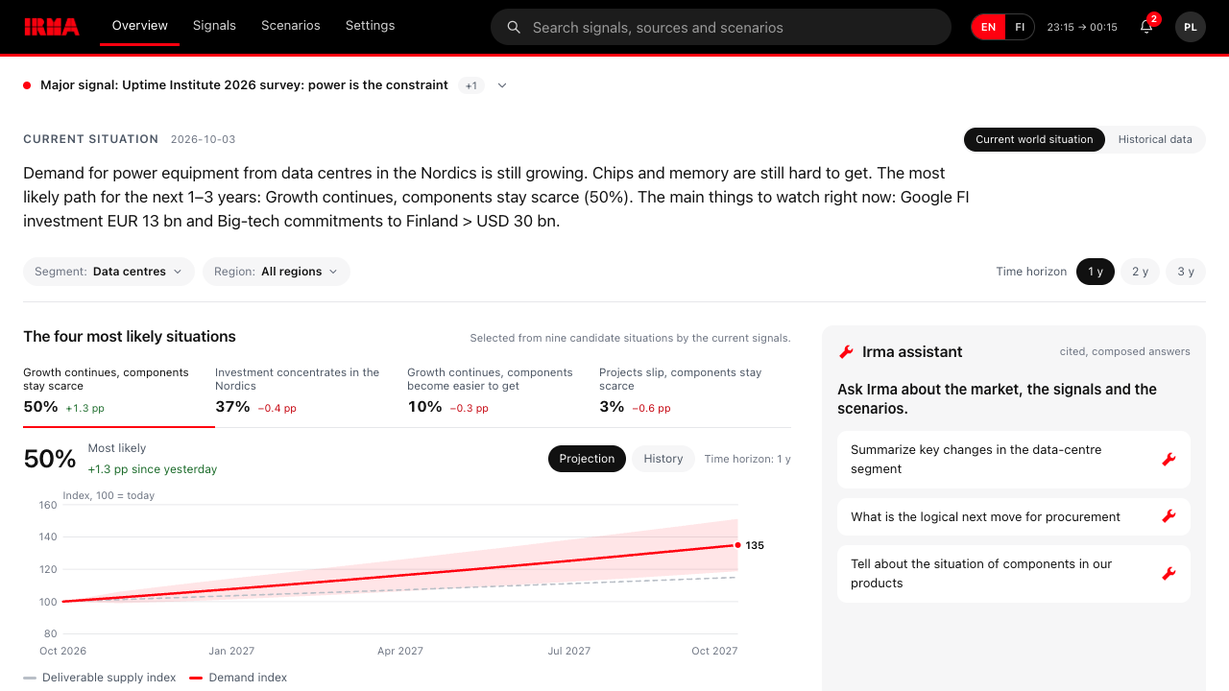
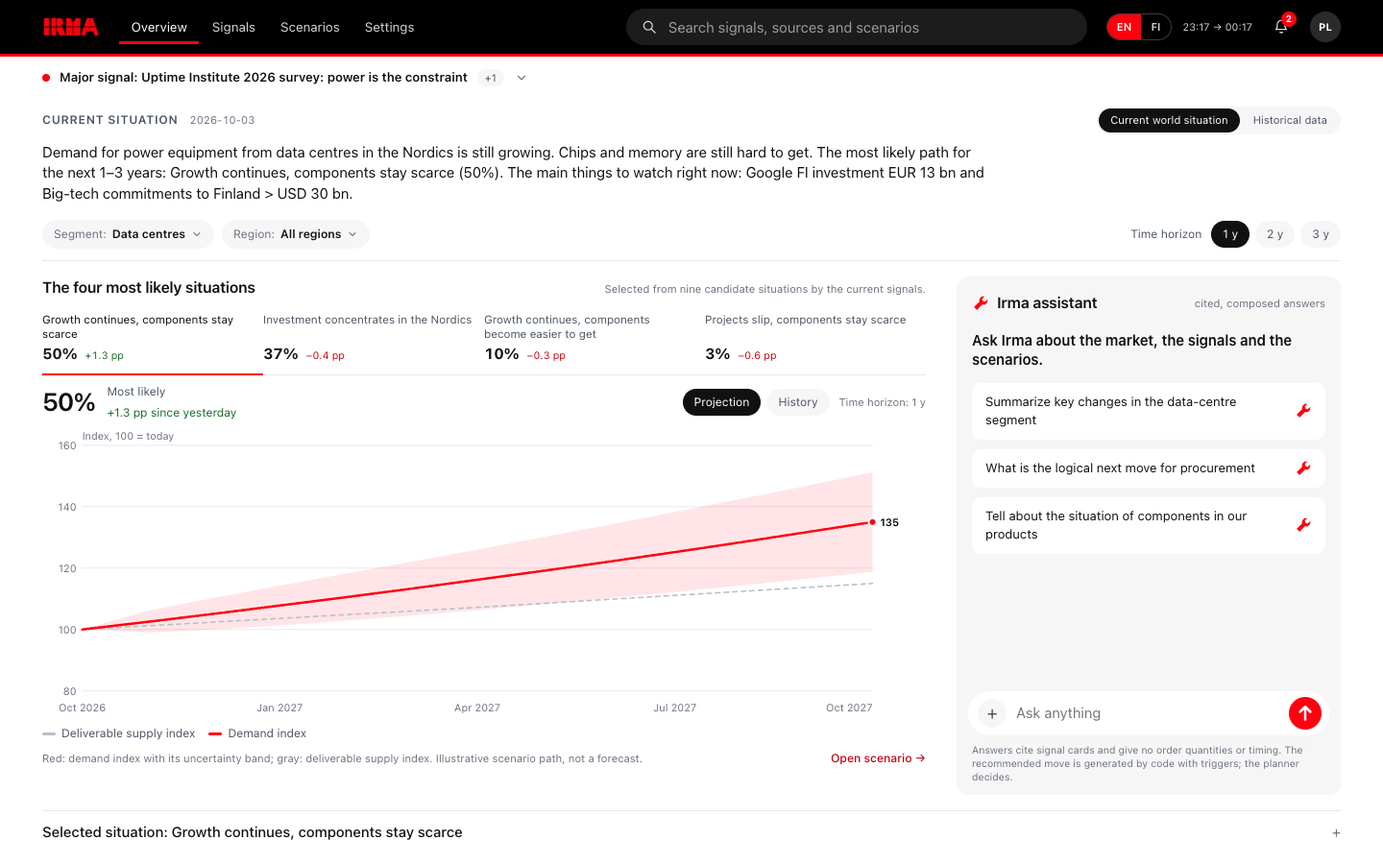
M5.1/frontend: historical panel fixes, design-scan clean, evidence screenshots (J1 J5 R7 R10)

diff --git a/app/frontend/app.js b/app/frontend/app.js
@@ -26,7 +26,7 @@
 
   const I18N = {
     en: { overview: "Overview", signals: "Signals", scenarios: "Scenarios", settings: "Settings", search: "Search signals, sources and scenarios",
-      summaryTitle: "Current situation", allSegments: "All segments", pickSegTitle: "Pick one segment", pickSegText: "The scenario chart and the recommended move are made for one segment at a time. Signals from all segments are on the Signals page.", pickSegChart: "Choose a segment to see the four most likely situations.", pickSegRec: "Choose a segment to see the recommended move.", moreDetail: "More detail", fullSituation: "Current situation, full text", topSignals: "Strongest signals", dataSetNote: "About this data set", histTitle: "Historical data", histSub: "How the weights and the leading situation looked on past dates, using only what had been published by then, next to today.", histAsOf: "As of", histLeader: "Leading situation", histTop: "Strongest signals", histNext: "What happened next", histToday: "Today", histNone: "Not yet known", histLoading: "Loading the historical comparison…", histError: "Could not load the historical comparison", histSignals: "{n} signals", histShow: "Show the historical data panel", histSource: "Source", mapTitle: "Signal map", mapSub: "Each dot is a signal: weight against impact.", listsTitle: "Signal lists", listsSub: "Latest changes, strong and weak signals, negative signals and counter-evidence.", formulaTitle: "Value of each formula", formulaUsedNote: "The weight used in the scenarios is the value marked “used”.", formulaUsed: "used", weightUsed: "Weight used", signalsList: "Signals", regionFilter: "Region", segmentFilter: "Segment", domainsRemoved: "Removed from the allowlist because Anthropic's search tool cannot access them: {d}", blockedDomains: "Not accessible to the search tool, so excluded automatically: {d}", scoutTitle: "Automatic signal search", scoutRunning: "Searching the web for new signals…", scoutIdle: "Runs on every update. Last run {a}; next update {b}.", scoutNever: "No run yet.", searchNow: "Search now", scoutSummary: "{acc} added · {rej} rejected · {s} searches · about USD {c} · {d} s", scoutCandidates: "Candidates in the last run", scoutEarlier: "Earlier runs", scoutRules: "Rules a source must pass", added: "added", rejectedWord: "rejected", failedWord: "failed", foundAuto: "found automatically", scoutFoundCount: "{n} signal(s) found automatically so far.", whySignal: "Why it is a signal", scoutSettingsTitle: "Automatic search for new signals", scoutEnabled: "Search for new signals on every update", maxCandidates: "Candidates checked per run", discoverySearches: "Searches in the discovery step", maxAge: "Maximum age of a source (days)", minGrade: "Minimum publisher grade", gradeA: "A only: primary sources", gradeAB: "A or B: primary sources and reputable press", minWeight: "Minimum weight to be added", minLoad: "Minimum effect on a scenario theme", clearFound: "Remove automatically found signals", clearConfirm: "Remove all signals added by the automatic search?", scoutCost: "Estimate: about USD 0.10–0.30 per run for discovery, plus about USD 0.20–0.55 for each candidate that reaches the full check. The update frequency sets how many runs happen a day.", scoutStarted: "Automatic search started", scoutBusy: "A search is already running", scoutDone: "Automatic search finished: {acc} added, {rej} rejected", openSignal: "Open signal", rules: ["The link must be a page the search actually returned, and the page must have been read or cited.", "The publisher must be graded {grade} or better: primary sources A, reputable press B.", "The page must show a publication date no older than {days} days.", "The item must belong to a defined theme and state how it moves relay demand or component supply.", "The quoted sentence must be found in the retrieved page text.", "The link and the headline must be new.", "A primary source must corroborate it, and a counter-evidence search is run against it.", "Its weight after counter-evidence and freshness must be at least {w}, and it must move a scenario theme by at least {load}.", "If nothing passes every rule, nothing is added."], webVerification: "Web verification", corroborated: "Corroborated", notCorroborated: "Not corroborated", primarySource: "Primary source", searchesRun: "Searches run", retrievedPages: "Pages retrieved", queries: "Queries", webVerified: "verified on the web", linkRemoved: "link removed: not among retrieved pages", counterSearch: "Counter-evidence search", foundNothing: "nothing contradicting found", webSearch: "Web search", webEnabled: "Agents may search and read the web", maxSearches: "Searches per agent call", maxFetches: "Page fetches per agent call", allowedDomains: "Allowed domains (one per line)", primaryDomains: "Primary-source domains, graded A (one per line)", webPricing: "Web search costs USD 10 per 1,000 searches plus tokens. Fetching a page has no fee; its text counts as input tokens, at most 8,000 per page. Only links the tools actually retrieved are kept.", webNeedsKey: "Active only with an API key; without one the agents run in replay mode.", mockData: "Evidence set", fourTitle: "The four most likely situations", fourNote: "Selected from nine candidate situations by the current signals.",
+      summaryTitle: "Current situation", allSegments: "All segments", pickSegTitle: "Pick one segment", pickSegText: "The scenario chart and the recommended move are made for one segment at a time. Signals from all segments are on the Signals page.", pickSegChart: "Choose a segment to see the four most likely situations.", pickSegRec: "Choose a segment to see the recommended move.", moreDetail: "More detail", fullSituation: "Current situation, full text", topSignals: "Strongest signals", dataSetNote: "About this data set", histTitle: "Historical data", histSub: "How the weights and the leading situation looked on past dates, using only what had been published by then, next to today.", histAsOf: "As of", histLeader: "Leading situation", histTop: "Strongest signals", histNext: "What happened next", histToday: "Today", histNone: "Not yet known", histLoading: "Loading the historical comparison…", histError: "Could not load the historical comparison", histSignals: "{n} signals", histNoToday: "Today's picture is shown when the current data set is selected.", histSource: "Source", mapTitle: "Signal map", mapSub: "Each dot is a signal: weight against impact.", listsTitle: "Signal lists", listsSub: "Latest changes, strong and weak signals, negative signals and counter-evidence.", formulaTitle: "Value of each formula", formulaUsedNote: "The weight used in the scenarios is the value marked “used”.", formulaUsed: "used", weightUsed: "Weight used", signalsList: "Signals", regionFilter: "Region", segmentFilter: "Segment", domainsRemoved: "Removed from the allowlist because Anthropic's search tool cannot access them: {d}", blockedDomains: "Not accessible to the search tool, so excluded automatically: {d}", scoutTitle: "Automatic signal search", scoutRunning: "Searching the web for new signals…", scoutIdle: "Runs on every update. Last run {a}; next update {b}.", scoutNever: "No run yet.", searchNow: "Search now", scoutSummary: "{acc} added · {rej} rejected · {s} searches · about USD {c} · {d} s", scoutCandidates: "Candidates in the last run", scoutEarlier: "Earlier runs", scoutRules: "Rules a source must pass", added: "added", rejectedWord: "rejected", failedWord: "failed", foundAuto: "found automatically", scoutFoundCount: "{n} signal(s) found automatically so far.", whySignal: "Why it is a signal", scoutSettingsTitle: "Automatic search for new signals", scoutEnabled: "Search for new signals on every update", maxCandidates: "Candidates checked per run", discoverySearches: "Searches in the discovery step", maxAge: "Maximum age of a source (days)", minGrade: "Minimum publisher grade", gradeA: "A only: primary sources", gradeAB: "A or B: primary sources and reputable press", minWeight: "Minimum weight to be added", minLoad: "Minimum effect on a scenario theme", clearFound: "Remove automatically found signals", clearConfirm: "Remove all signals added by the automatic search?", scoutCost: "Estimate: about USD 0.10–0.30 per run for discovery, plus about USD 0.20–0.55 for each candidate that reaches the full check. The update frequency sets how many runs happen a day.", scoutStarted: "Automatic search started", scoutBusy: "A search is already running", scoutDone: "Automatic search finished: {acc} added, {rej} rejected", openSignal: "Open signal", rules: ["The link must be a page the search actually returned, and the page must have been read or cited.", "The publisher must be graded {grade} or better: primary sources A, reputable press B.", "The page must show a publication date no older than {days} days.", "The item must belong to a defined theme and state how it moves relay demand or component supply.", "The quoted sentence must be found in the retrieved page text.", "The link and the headline must be new.", "A primary source must corroborate it, and a counter-evidence search is run against it.", "Its weight after counter-evidence and freshness must be at least {w}, and it must move a scenario theme by at least {load}.", "If nothing passes every rule, nothing is added."], webVerification: "Web verification", corroborated: "Corroborated", notCorroborated: "Not corroborated", primarySource: "Primary source", searchesRun: "Searches run", retrievedPages: "Pages retrieved", queries: "Queries", webVerified: "verified on the web", linkRemoved: "link removed: not among retrieved pages", counterSearch: "Counter-evidence search", foundNothing: "nothing contradicting found", webSearch: "Web search", webEnabled: "Agents may search and read the web", maxSearches: "Searches per agent call", maxFetches: "Page fetches per agent call", allowedDomains: "Allowed domains (one per line)", primaryDomains: "Primary-source domains, graded A (one per line)", webPricing: "Web search costs USD 10 per 1,000 searches plus tokens. Fetching a page has no fee; its text counts as input tokens, at most 8,000 per page. Only links the tools actually retrieved are kept.", webNeedsKey: "Active only with an API key; without one the agents run in replay mode.", mockData: "Evidence set", fourTitle: "The four most likely situations", fourNote: "Selected from nine candidate situations by the current signals.",
       mostLikely: "Most likely", rankOf: "Rank {n} of 4", sinceYesterday: "since yesterday", noPrev: "no previous day", projection: "Projection", history: "History",
       d7: "7 days", d30: "30 days", d90: "90 days", all: "All", demandIdx: "Demand index", supplyIdx: "Deliverable supply index",
       idxLabel: "Index, 100 = today", probLabel: "Probability on that day (%)", openScenario: "Open scenario", detailsTitle: "Selected situation", whatHappens: "What happens",
@@ -61,7 +61,7 @@
       horizonFitTitle: "Fit to the time horizon", fitWord: "Fit T(h)", credTitle: "Credibility (belief to plausibility)", indepSources: "independent sources", assumptionsTitle: "Assumptions behind this weight", baseWeight: "Now",
       methodsLabel: "Values by method", cappedNote: "Not yet challenged by counter-evidence: weight capped at 0.6." },
     fi: { overview: "Yleiskuva", signals: "Signaalit", scenarios: "Skenaariot", settings: "Asetukset", search: "Hae signaaleja, lähteitä ja skenaarioita",
-      summaryTitle: "Nykytilanne", allSegments: "Kaikki segmentit", pickSegTitle: "Valitse yksi segmentti", pickSegText: "Skenaariokuvaaja ja suositeltu siirto tehdään yhdelle segmentille kerrallaan. Kaikkien segmenttien signaalit ovat Signaalit-sivulla.", pickSegChart: "Valitse segmentti nähdäksesi neljä todennäköisintä tilannetta.", pickSegRec: "Valitse segmentti nähdäksesi suositellun siirron.", moreDetail: "Lisätietoa", fullSituation: "Nykytilanne, koko teksti", topSignals: "Vahvimmat signaalit", dataSetNote: "Tietoaineistosta", histTitle: "Vanha data", histSub: "Miltä painoarvot ja johtava tilanne näyttivät aiempina päivinä, kun käytössä oli vain siihen mennessä julkaistu tieto, ja miltä ne näyttävät tänään.", histAsOf: "Tilanne", histLeader: "Johtava tilanne", histTop: "Vahvimmat signaalit", histNext: "Mitä tapahtui seuraavaksi", histToday: "Tänään", histNone: "Ei vielä tiedossa", histLoading: "Ladataan vanhan datan vertailua…", histError: "Vanhan datan vertailua ei voitu ladata", histSignals: "{n} signaalia", histShow: "Näytä vanhan datan paneeli", histSource: "Lähde", mapTitle: "Signaalikartta", mapSub: "Jokainen piste on signaali: painoarvo suhteessa vaikutukseen.", listsTitle: "Signaalilistat", listsSub: "Viimeisimmät muutokset, vahvat ja heikot signaalit sekä negatiiviset signaalit ja vastatodisteet.", formulaTitle: "Kunkin kaavan arvo", formulaUsedNote: "Skenaarioissa käytetty painoarvo on arvo, jossa on merkintä “käytössä”.", formulaUsed: "käytössä", weightUsed: "Käytetty painoarvo", signalsList: "Signaalit", regionFilter: "Alue", segmentFilter: "Segmentti", domainsRemoved: "Poistettu sallittujen listalta, koska Anthropicin hakutyökalu ei pääse niihin: {d}", blockedDomains: "Hakutyökalu ei pääse näihin, joten ne on suljettu pois automaattisesti: {d}", scoutTitle: "Automaattinen signaalihaku", scoutRunning: "Haetaan uusia signaaleja verkosta…", scoutIdle: "Ajetaan jokaisella päivityksellä. Viimeksi {a}; seuraava päivitys {b}.", scoutNever: "Ei vielä ajoja.", searchNow: "Hae nyt", scoutSummary: "{acc} lisätty · {rej} hylätty · {s} hakua · noin {c} USD · {d} s", scoutCandidates: "Viimeisen ajon ehdokkaat", scoutEarlier: "Aiemmat ajot", scoutRules: "Säännöt, jotka lähteen on läpäistävä", added: "lisätty", rejectedWord: "hylätty", failedWord: "epäonnistui", foundAuto: "löydetty automaattisesti", scoutFoundCount: "{n} signaalia löydetty automaattisesti tähän mennessä.", whySignal: "Miksi tämä on signaali", scoutSettingsTitle: "Uusien signaalien automaattinen haku", scoutEnabled: "Hae uusia signaaleja jokaisella päivityksellä", maxCandidates: "Tarkistettavia ehdokkaita per ajo", discoverySearches: "Hakuja löytövaiheessa", maxAge: "Lähteen enimmäisikä (päivää)", minGrade: "Julkaisijan vähimmäisluokka", gradeA: "Vain A: ensisijaiset lähteet", gradeAB: "A tai B: ensisijaiset lähteet ja luotettava media", minWeight: "Lisättävän signaalin vähimmäispaino", minLoad: "Vähimmäisvaikutus skenaarioteemaan", clearFound: "Poista automaattisesti löydetyt signaalit", clearConfirm: "Poistetaanko kaikki automaattisen haun lisäämät signaalit?", scoutCost: "Arvio: noin 0,10–0,30 USD per ajo löytövaiheelle sekä noin 0,20–0,55 USD jokaisesta ehdokkaasta, joka etenee täyteen tarkistukseen. Päivitystiheys määrää ajojen määrän päivässä.", scoutStarted: "Automaattinen haku käynnistyi", scoutBusy: "Haku on jo käynnissä", scoutDone: "Automaattinen haku valmis: {acc} lisätty, {rej} hylätty", openSignal: "Avaa signaali", rules: ["Linkin on oltava sivu, jonka haku todella palautti, ja sivu on luettu tai lainattu.", "Julkaisijan luokan on oltava {grade} tai parempi: ensisijaiset lähteet A, luotettava media B.", "Sivulla on oltava julkaisupäivä, joka on enintään {days} päivää vanha.", "Tiedon on kuuluttava määriteltyyn teemaan ja kerrottava, miten se vaikuttaa relekysyntään tai komponenttien saatavuuteen.", "Lainatun lauseen on löydyttävä haetun sivun tekstistä.", "Linkin ja otsikon on oltava uusia.", "Ensisijaisen lähteen on vahvistettava tieto, ja sitä vastaan ajetaan vastanäytön haku.", "Painon vastanäytön ja tuoreuden jälkeen on oltava vähintään {w}, ja sen on liikutettava skenaarioteemaa vähintään {load}.", "Jos mikään ei läpäise kaikkia sääntöjä, mitään ei lisätä."], webVerification: "Verkkotarkistus", corroborated: "Vahvistettu", notCorroborated: "Ei vahvistettu", primarySource: "Ensisijainen lähde", searchesRun: "Hakuja", retrievedPages: "Haettuja sivuja", queries: "Haut", webVerified: "tarkistettu verkosta", linkRemoved: "linkki poistettu: ei haettujen sivujen joukossa", counterSearch: "Vastanäytön haku", foundNothing: "kumoavaa ei löytynyt", webSearch: "Verkkohaku", webEnabled: "Agentit saavat hakea ja lukea verkkoa", maxSearches: "Hakuja per agenttikutsu", maxFetches: "Sivunhakuja per agenttikutsu", allowedDomains: "Sallitut verkkotunnukset (yksi per rivi)", primaryDomains: "Ensisijaisten lähteiden verkkotunnukset, luokka A (yksi per rivi)", webPricing: "Verkkohaku maksaa 10 USD per 1 000 hakua sekä tokenit. Sivun haulla ei ole maksua; sen teksti lasketaan syötetokeneiksi, enintään 8 000 per sivu. Vain työkalujen oikeasti hakemat linkit säilytetään.", webNeedsKey: "Toimii vain API-avaimella; ilman sitä agentit toimivat toistotilassa.", mockData: "Aineisto", fourTitle: "Neljä todennäköisintä tilannetta", fourNote: "Valittu yhdeksästä ehdokastilanteesta nykyisten signaalien perusteella.",
+      summaryTitle: "Nykytilanne", allSegments: "Kaikki segmentit", pickSegTitle: "Valitse yksi segmentti", pickSegText: "Skenaariokuvaaja ja suositeltu siirto tehdään yhdelle segmentille kerrallaan. Kaikkien segmenttien signaalit ovat Signaalit-sivulla.", pickSegChart: "Valitse segmentti nähdäksesi neljä todennäköisintä tilannetta.", pickSegRec: "Valitse segmentti nähdäksesi suositellun siirron.", moreDetail: "Lisätietoa", fullSituation: "Nykytilanne, koko teksti", topSignals: "Vahvimmat signaalit", dataSetNote: "Tietoaineistosta", histTitle: "Vanha data", histSub: "Miltä painoarvot ja johtava tilanne näyttivät aiempina päivinä, kun käytössä oli vain siihen mennessä julkaistu tieto, ja miltä ne näyttävät tänään.", histAsOf: "Tilanne", histLeader: "Johtava tilanne", histTop: "Vahvimmat signaalit", histNext: "Mitä tapahtui seuraavaksi", histToday: "Tänään", histNone: "Ei vielä tiedossa", histLoading: "Ladataan vanhan datan vertailua…", histError: "Vanhan datan vertailua ei voitu ladata", histSignals: "{n} signaalia", histNoToday: "Tämän päivän tilanne näkyy, kun nykyinen aineisto on valittuna.", histSource: "Lähde", mapTitle: "Signaalikartta", mapSub: "Jokainen piste on signaali: painoarvo suhteessa vaikutukseen.", listsTitle: "Signaalilistat", listsSub: "Viimeisimmät muutokset, vahvat ja heikot signaalit sekä negatiiviset signaalit ja vastatodisteet.", formulaTitle: "Kunkin kaavan arvo", formulaUsedNote: "Skenaarioissa käytetty painoarvo on arvo, jossa on merkintä “käytössä”.", formulaUsed: "käytössä", weightUsed: "Käytetty painoarvo", signalsList: "Signaalit", regionFilter: "Alue", segmentFilter: "Segmentti", domainsRemoved: "Poistettu sallittujen listalta, koska Anthropicin hakutyökalu ei pääse niihin: {d}", blockedDomains: "Hakutyökalu ei pääse näihin, joten ne on suljettu pois automaattisesti: {d}", scoutTitle: "Automaattinen signaalihaku", scoutRunning: "Haetaan uusia signaaleja verkosta…", scoutIdle: "Ajetaan jokaisella päivityksellä. Viimeksi {a}; seuraava päivitys {b}.", scoutNever: "Ei vielä ajoja.", searchNow: "Hae nyt", scoutSummary: "{acc} lisätty · {rej} hylätty · {s} hakua · noin {c} USD · {d} s", scoutCandidates: "Viimeisen ajon ehdokkaat", scoutEarlier: "Aiemmat ajot", scoutRules: "Säännöt, jotka lähteen on läpäistävä", added: "lisätty", rejectedWord: "hylätty", failedWord: "epäonnistui", foundAuto: "löydetty automaattisesti", scoutFoundCount: "{n} signaalia löydetty automaattisesti tähän mennessä.", whySignal: "Miksi tämä on signaali", scoutSettingsTitle: "Uusien signaalien automaattinen haku", scoutEnabled: "Hae uusia signaaleja jokaisella päivityksellä", maxCandidates: "Tarkistettavia ehdokkaita per ajo", discoverySearches: "Hakuja löytövaiheessa", maxAge: "Lähteen enimmäisikä (päivää)", minGrade: "Julkaisijan vähimmäisluokka", gradeA: "Vain A: ensisijaiset lähteet", gradeAB: "A tai B: ensisijaiset lähteet ja luotettava media", minWeight: "Lisättävän signaalin vähimmäispaino", minLoad: "Vähimmäisvaikutus skenaarioteemaan", clearFound: "Poista automaattisesti löydetyt signaalit", clearConfirm: "Poistetaanko kaikki automaattisen haun lisäämät signaalit?", scoutCost: "Arvio: noin 0,10–0,30 USD per ajo löytövaiheelle sekä noin 0,20–0,55 USD jokaisesta ehdokkaasta, joka etenee täyteen tarkistukseen. Päivitystiheys määrää ajojen määrän päivässä.", scoutStarted: "Automaattinen haku käynnistyi", scoutBusy: "Haku on jo käynnissä", scoutDone: "Automaattinen haku valmis: {acc} lisätty, {rej} hylätty", openSignal: "Avaa signaali", rules: ["Linkin on oltava sivu, jonka haku todella palautti, ja sivu on luettu tai lainattu.", "Julkaisijan luokan on oltava {grade} tai parempi: ensisijaiset lähteet A, luotettava media B.", "Sivulla on oltava julkaisupäivä, joka on enintään {days} päivää vanha.", "Tiedon on kuuluttava määriteltyyn teemaan ja kerrottava, miten se vaikuttaa relekysyntään tai komponenttien saatavuuteen.", "Lainatun lauseen on löydyttävä haetun sivun tekstistä.", "Linkin ja otsikon on oltava uusia.", "Ensisijaisen lähteen on vahvistettava tieto, ja sitä vastaan ajetaan vastanäytön haku.", "Painon vastanäytön ja tuoreuden jälkeen on oltava vähintään {w}, ja sen on liikutettava skenaarioteemaa vähintään {load}.", "Jos mikään ei läpäise kaikkia sääntöjä, mitään ei lisätä."], webVerification: "Verkkotarkistus", corroborated: "Vahvistettu", notCorroborated: "Ei vahvistettu", primarySource: "Ensisijainen lähde", searchesRun: "Hakuja", retrievedPages: "Haettuja sivuja", queries: "Haut", webVerified: "tarkistettu verkosta", linkRemoved: "linkki poistettu: ei haettujen sivujen joukossa", counterSearch: "Vastanäytön haku", foundNothing: "kumoavaa ei löytynyt", webSearch: "Verkkohaku", webEnabled: "Agentit saavat hakea ja lukea verkkoa", maxSearches: "Hakuja per agenttikutsu", maxFetches: "Sivunhakuja per agenttikutsu", allowedDomains: "Sallitut verkkotunnukset (yksi per rivi)", primaryDomains: "Ensisijaisten lähteiden verkkotunnukset, luokka A (yksi per rivi)", webPricing: "Verkkohaku maksaa 10 USD per 1 000 hakua sekä tokenit. Sivun haulla ei ole maksua; sen teksti lasketaan syötetokeneiksi, enintään 8 000 per sivu. Vain työkalujen oikeasti hakemat linkit säilytetään.", webNeedsKey: "Toimii vain API-avaimella; ilman sitä agentit toimivat toistotilassa.", mockData: "Aineisto", fourTitle: "Neljä todennäköisintä tilannetta", fourNote: "Valittu yhdeksästä ehdokastilanteesta nykyisten signaalien perusteella.",
       mostLikely: "Todennäköisin", rankOf: "Sija {n}/4", sinceYesterday: "eilisestä", noPrev: "ei edellistä päivää", projection: "Ennuste", history: "Historia",
       d7: "7 päivää", d30: "30 päivää", d90: "90 päivää", all: "Kaikki", demandIdx: "Kysyntäindeksi", supplyIdx: "Toimituskyvyn indeksi",
       idxLabel: "Indeksi, 100 = tänään", probLabel: "Todennäköisyys kyseisenä päivänä (%)", openScenario: "Avaa skenaario", detailsTitle: "Valittu tilanne", whatHappens: "Mitä tapahtuu",
@@ -106,7 +106,7 @@
     if (attrs) for (const [k, v] of Object.entries(attrs)) {
       if (v === null || v === undefined || v === false) continue;
       if (k === "class") el.setAttribute("class", v);
-      else if (k === "style" && typeof v === "object") Object.assign(el.style, v);
+      else if (k === "style" && typeof v === "object") { for (const [sk, sv] of Object.entries(v)) { if (sk.startsWith("--")) el.style.setProperty(sk, sv); else el.style[sk] = sv; } }
       else if (k.startsWith("on") && typeof v === "function") el.addEventListener(k.slice(2), v);
       else el.setAttribute(k, v);
     }
@@ -216,7 +216,7 @@
     else main = h("span", { class: "chg muted" }, t("changeFlat"));
     return h("span", { class: "chg-wrap" }, main, since);
   }
-  const confClass = (c) => (c === "high" ? "ok" : c === "medium" ? "warn" : "");
+  const confClass = (c) => (c === "high" ? "ok" : "");
   // The backend headline starts with "Recommended move (confidence, 'X' at N%): ..."; the pills already show that, so the card leads with the move itself.
   function moveSentence(txt) { const m = /^[^()]*\([^)]*\)\s*:\s*([\s\S]+)$/.exec(txt || ""); const r = m ? m[1] : (txt || ""); return r.charAt(0).toUpperCase() + r.slice(1); }
   function recommendationCard(R, hedgeOpen, horizonNote) {
@@ -232,7 +232,7 @@
       // Compact: area, type and the move itself stay visible; trigger, horizon and cost if wrong sit behind one disclosure.
       const isLead = sameMove(L(m.text), moveSentence(L(R.headline)));
       return h("li", { class: `rec-move ${isLead ? "lead" : ""}` },
-        h("div", { class: "rec-move-head" }, h("span", { class: "rec-area" }, t(`area_${m.area}`)), pill(m.type === "no_regret" ? t("noRegret") : t("contingent"), m.type === "no_regret" ? "ok" : "warn")),
+        h("div", { class: "rec-move-head" }, h("span", { class: "rec-area" }, t(`area_${m.area}`)), pill(m.type === "no_regret" ? t("noRegret") : t("contingent"), m.type === "no_regret" ? "ok" : "")),
         h("div", { class: "rec-move-text" }, L(m.text)),
         disc(`${t("triggerWord")} · ${t("costIfWrong").toLowerCase()}`, h("div", { class: "small" },
           h("div", { class: "rec-trigger" }, h("span", { class: "rec-k" }, `${t("triggerWord")}: `), cites(L(m.trigger)), ...extra.map((id) => [" ", h("a", { class: "cite", href: `#/signal/${id}` }, id)])),
@@ -259,7 +259,6 @@
     const mn = Math.min(...v), mx = Math.max(...v), sp = mx - mn || 1;
     const pts = v.map((y, i) => [pad + (i * (w - 2 * pad)) / (v.length - 1), hh - pad - ((y - mn) / sp) * (hh - 2 * pad)]);
     svg.append(h("svg:path", { d: "M" + pts.map((p) => p.join(",")).join(" L"), fill: "none", stroke: color || RED, "stroke-width": 2, "stroke-linejoin": "round", "stroke-linecap": "round" }));
-    const lp = pts[pts.length - 1]; svg.append(h("svg:circle", { cx: lp[0], cy: lp[1], r: 3.5, fill: color || RED, stroke: "#fff", "stroke-width": 2 }));
     return svg;
   }
   function lineChart(dates, series, opts) {
@@ -384,7 +383,7 @@
       const rows = D.rows || []; const td = D.today;
       const outcome = (o) => o ? h("div", null, h("div", null, L(o.text)), o.source ? h("div", { class: "tiny" }, `${t("histSource")}: `, o.source.url ? h("a", { class: "link", href: o.source.url, target: "_blank", rel: "noopener" }, o.source.name) : o.source.name, o.source.date ? ` · ${o.source.date}` : "") : null) : h("span", { class: "muted" }, t("histNone"));
       body.replaceChildren(
-        h("div", { class: "hist-label" }, h("strong", null, L(D.label)), D.data_label ? labelPill(D.data_label) : null),
+        h("div", { class: "hist-label" }, h("strong", null, L(D.label)), td ? null : h("span", { class: "tiny" }, t("histNoToday"))),
         h("div", { class: "table-wrap" }, h("table", { class: "hist-table" },
           h("thead", null, h("tr", null, h("th", null, t("histAsOf")), h("th", null, t("histLeader")), h("th", null, t("histTop")), h("th", null, t("histNext")))),
           h("tbody", null,

diff --git a/app/frontend/styles.css b/app/frontend/styles.css
@@ -25,14 +25,15 @@ p { margin: 0 0 var(--s3); }
 .nowrap { white-space: nowrap; }
 
 /* top bar */
-.topbar { position: sticky; top: 0; z-index: 20; background: var(--bar); border-bottom: 3px solid var(--accent); }
+.topbar { position: sticky; top: 0; z-index: 20; background: var(--bar); }
+.topbar::after { content: ""; display: block; height: 3px; background: var(--accent); }
 .topbar-inner { max-width: 1400px; margin: 0 auto; padding: 0 24px; height: 56px; display: flex; align-items: center; gap: 20px; }
 .brand { display: flex; align-items: center; }
 .brand-logo { height: 24px; width: auto; display: block; }
 .nav { display: flex; gap: 2px; }
-.nav a { padding: 8px 12px; color: var(--bar-text); font-size: 0.9rem; border-bottom: 3px solid transparent; }
+.nav a { padding: 8px 12px; color: var(--bar-text); font-size: 0.9rem; }
 .nav a:hover { color: #fff; }
-.nav a.active { color: #fff; border-bottom-color: var(--accent); }
+.nav a.active { color: #fff; box-shadow: inset 0 -3px 0 var(--accent); }
 .search { flex: 1; max-width: 480px; display: flex; align-items: center; gap: 10px; background: #1c1c1c; color: var(--bar-text); border-radius: 999px; padding: 7px 16px; margin-left: auto; }
 .search input { flex: 1; min-width: 0; border: 0; outline: 0; background: transparent; color: #fff; font: inherit; }
 .search input::placeholder { color: #9a9a9a; }
@@ -171,10 +172,9 @@ p { margin: 0 0 var(--s3); }
 .leader-line .tiny { max-width: 40rem; }
 
 /* one-segment prompt (view "all segments") */
-.pick-card { background: var(--bg-2); border-radius: var(--radius); padding: var(--s6); display: grid; gap: var(--s2); align-content: center; justify-items: start; min-height: 240px; }
+.pick-card { background: var(--bg-2); border-radius: var(--radius); padding: var(--s6); display: grid; gap: var(--s2); align-content: center; justify-items: start; min-height: 200px; }
 .pick-card p { margin: 0; max-width: 40rem; }
 .pick-btns { display: flex; gap: var(--s3); flex-wrap: wrap; margin-top: var(--s3); }
-.chart-col > .pick-card { height: var(--row-h, auto); }
 
 /* market summary rows */
 .market-card { display: grid; gap: var(--s2); }
@@ -213,7 +213,7 @@ details.panel > summary .tiny { max-width: 52rem; }
 .hist-table td:last-child, .hist-table th:last-child { padding-right: 0; }
 .hist-table td:nth-child(4) { max-width: 34rem; }
 .hist-table tr.today td { background: var(--bg-2); }
-.hist-table tr.today td:first-child { box-shadow: inset 3px 0 0 var(--accent); padding-left: var(--s3); }
+.hist-table tr.today td:first-child { padding-left: var(--s3); }
 .hist-leader { font-weight: 600; line-height: 1.3; }
 .hist-top { list-style: none; margin: 0; padding: 0; display: grid; gap: 4px; }
 .hist-top li { line-height: 1.3; }
@@ -273,7 +273,7 @@ details.panel > summary .tiny { max-width: 52rem; }
 .rank { display: grid; gap: 4px; }
 .rank-row { display: grid; grid-template-columns: 1fr 6rem; gap: 12px; align-items: center; cursor: pointer; padding: 12px; border-radius: 10px; }
 .rank-row:hover { background: var(--bg-2); }
-.rank-row.on { background: var(--bg-2); box-shadow: inset 3px 0 0 var(--accent); }
+.rank-row.on { background: var(--bg-3); }
 .rank-row .name { font-weight: 500; }
 .rank-row .num { text-align: right; font-variant-numeric: tabular-nums; font-weight: 600; font-size: 1.1rem; }
 .rank-row .num small { display: block; font-size: 0.75rem; font-weight: 400; color: var(--text-2); }
@@ -293,7 +293,7 @@ details.disc[open] summary::after { content: "–"; }
 details.disc .disc-body { padding-top: 10px; font-size: 0.9rem; }
 .kv { display: grid; grid-template-columns: max-content 1fr; gap: 6px 16px; font-size: 0.875rem; }
 .kv dt { color: var(--text-2); } .kv dd { margin: 0; }
-.quote { border-left: 2px solid var(--text-3); padding: 2px 12px; color: var(--text-2); font-size: 0.9rem; }
+.quote { background: var(--bg-2); border-radius: 8px; padding: 8px 12px; color: var(--text-2); font-size: 0.9rem; }
 .formula { font-family: ui-monospace, SFMono-Regular, Menlo, monospace; font-size: 0.8125rem; background: var(--bg-2); padding: 10px 12px; border-radius: 8px; overflow-x: auto; }
 .cite { display: inline-block; padding: 0 6px; border-radius: 6px; background: var(--accent-soft); color: var(--accent-dark); font-size: 0.75rem; font-weight: 600; }
 .ce { background: var(--bg-2); border-radius: 10px; padding: 12px 14px; font-size: 0.875rem; display: grid; gap: 4px; }
@@ -378,7 +378,6 @@ details.disc .disc-body { padding-top: 10px; font-size: 0.9rem; }
 @media (max-width: 1100px) {
   .main-row { grid-template-columns: minmax(0, 1fr); }
   .assistant { height: 460px; }
-  .chart-col > .pick-card { height: auto; }
   .sig-grid { grid-template-columns: minmax(0, 1fr); }
   .hz { margin-left: 0; }
 }
